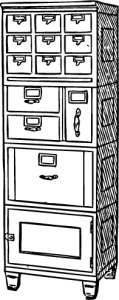
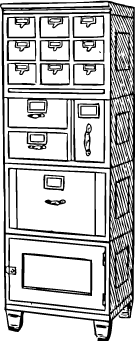
better illustration for #storage section

diff --git a/detect.html b/detect.html
@@ -264,7 +264,7 @@ body{counter-reset:h1 2}
 
 <h2 id=storage>Local Storage</h2>
 
-<p class=ss style="width:119px"><img src=i/openclipart.org_johnny_automatic_half_stack_of_horizontal_sections.png alt="filing cabinet with drawers of different sizes" width=119 height=300><br><span id=live-storage></span>
+<p class=ss style="width:135px"><img src=i/openclipart.org_johnny_automatic_half_stack_of_horizontal_sections.png alt="filing cabinet with drawers of different sizes" width=135 height=341><br><span id=live-storage></span>
 
 <p><a href=http://dev.w3.org/html5/webstorage/><abbr>HTML</abbr> 5 storage</a> provides a way for web sites to store information on your computer and retrieve it later. The concept is similar to cookies, but it&#8217;s designed for larger quantities of information. Cookies are limited in size, and your browser sends them back to the web server every time it requests a new page (which takes extra time and precious bandwidth). <abbr>HTML</abbr> 5 storage stays on your computer, and web sites can access it with JavaScript after the page is loaded.
 
